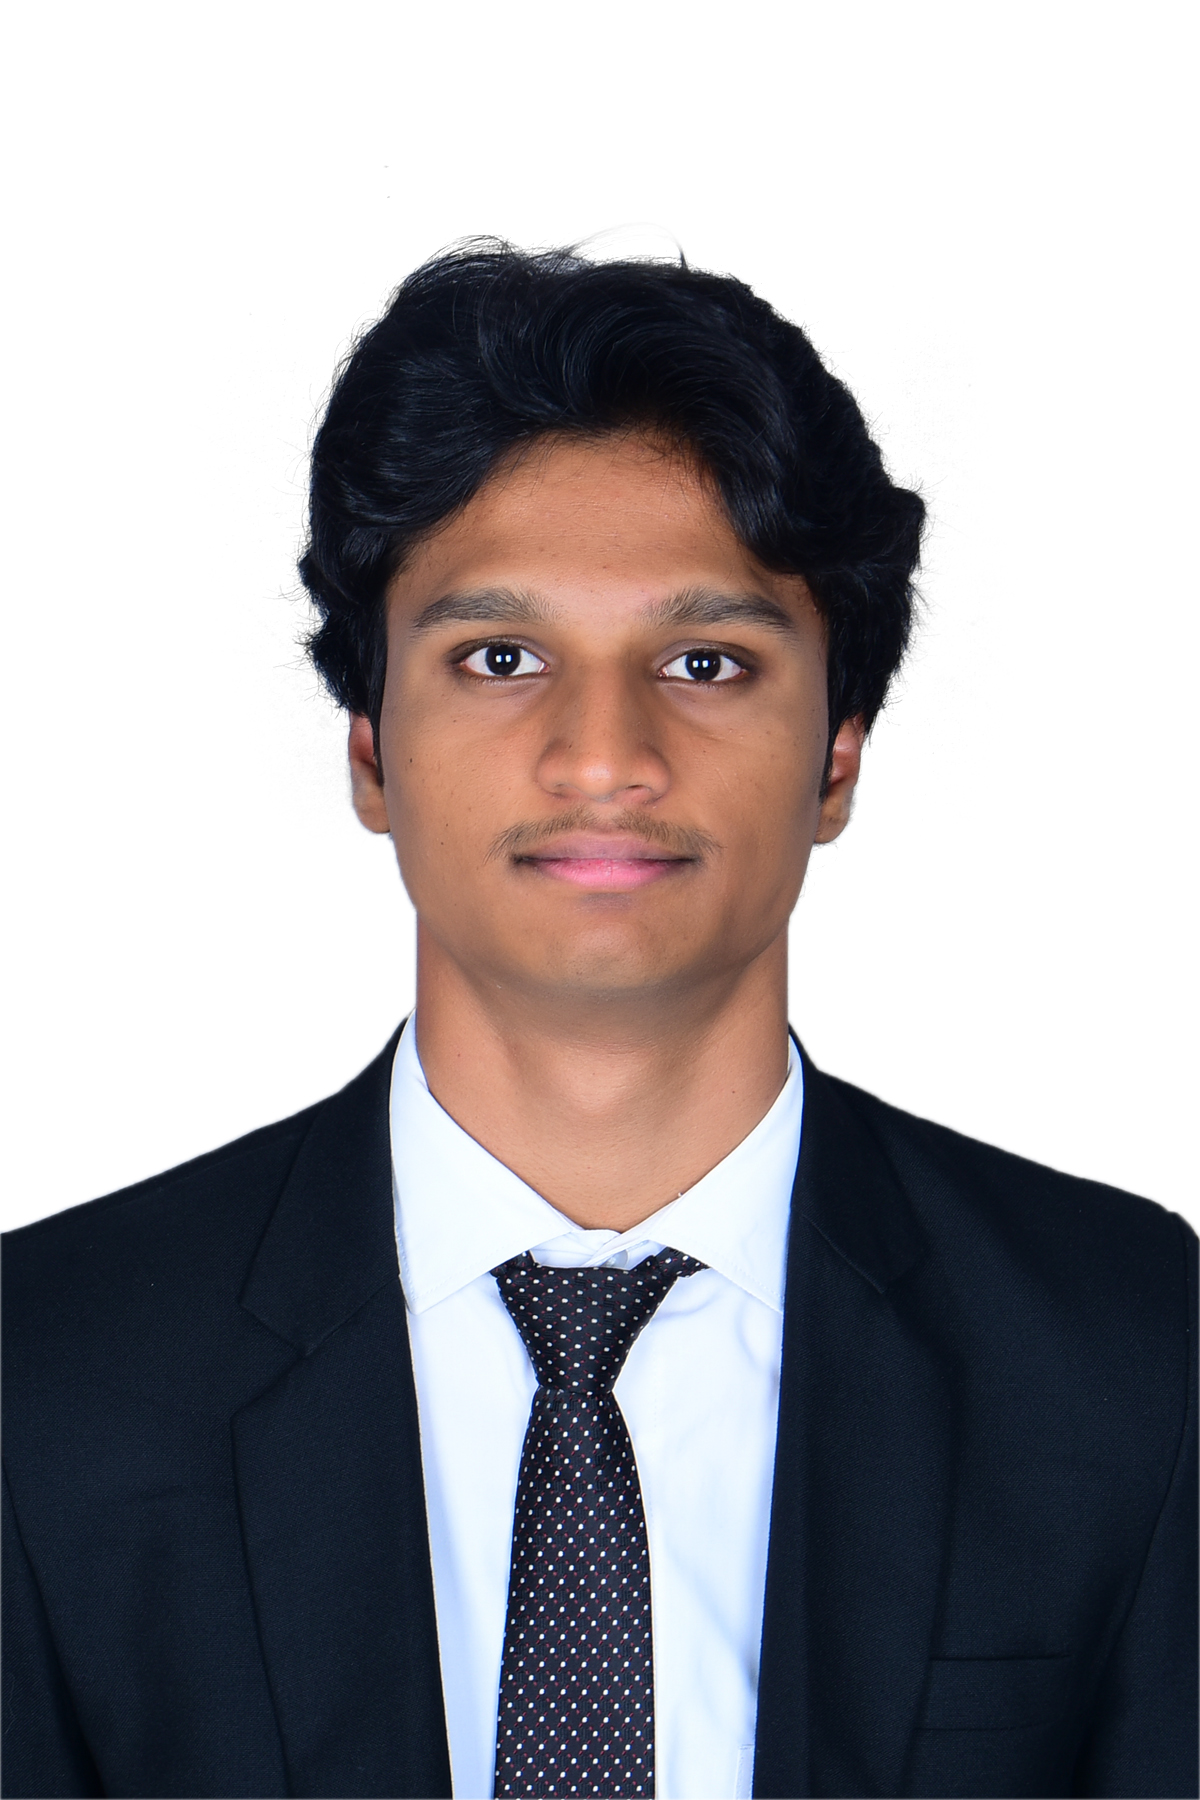
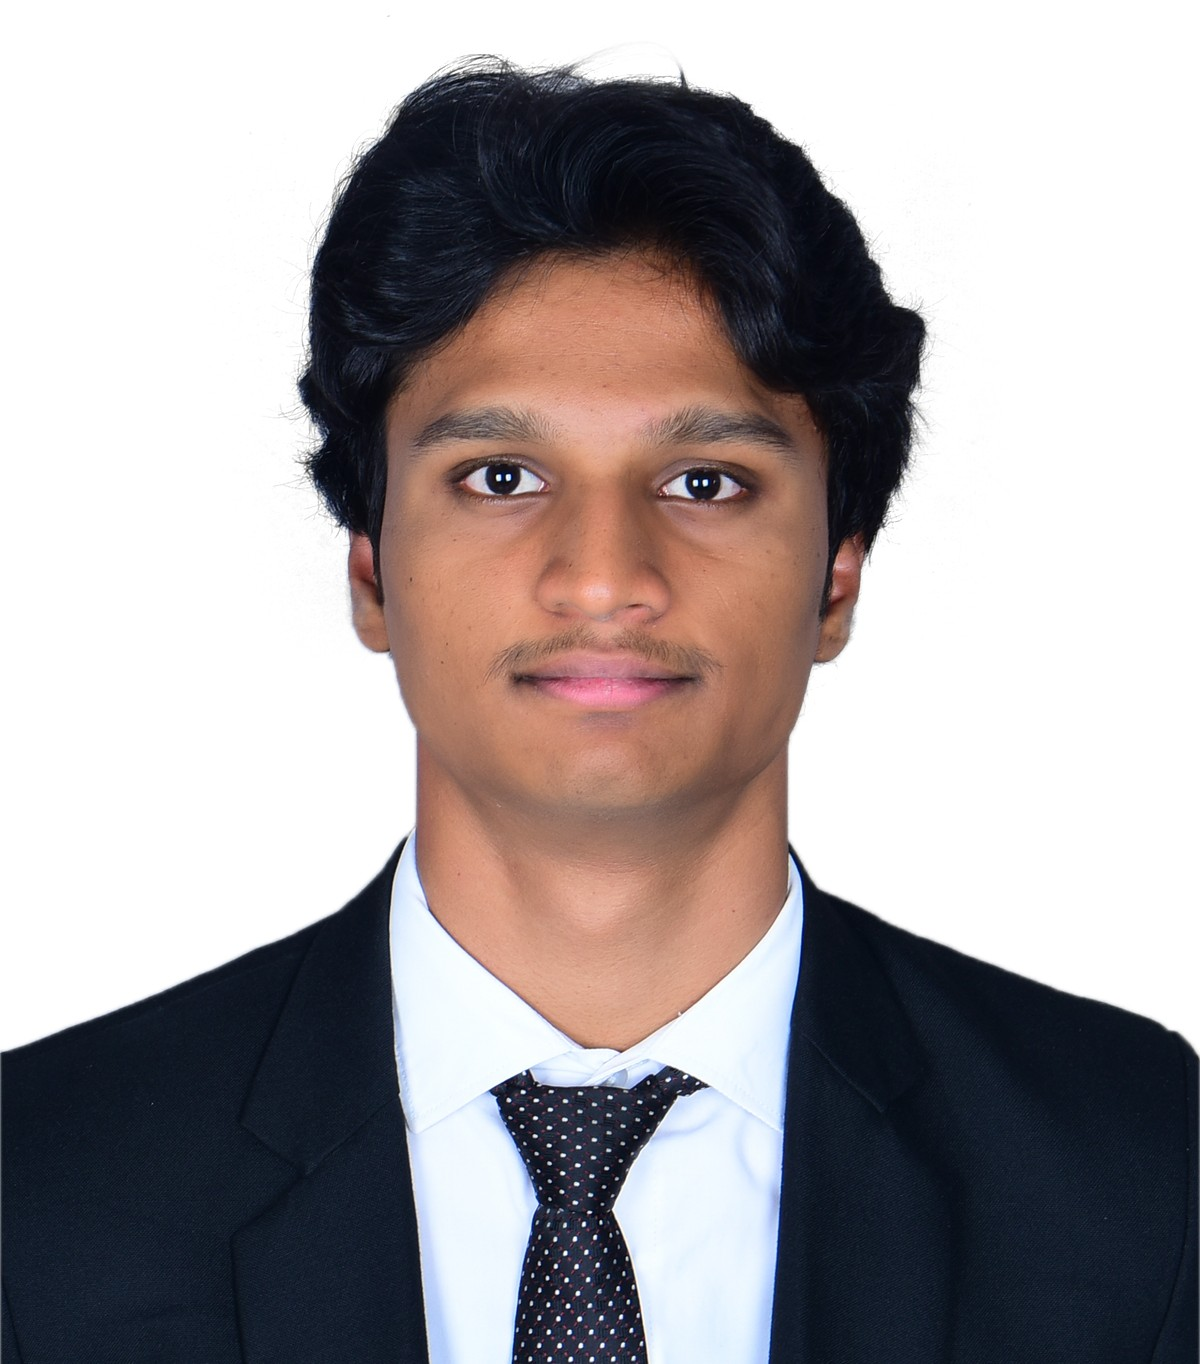
Core faculty, core students, website team and lighter contact cards
- Core Faculty: six members with photos; Mr Sumanth S Y also shown as
  Head of Culturals in the HOD section
- Core Students: six members with phone, email and LinkedIn; the landing
  page "Reach the student core" strip now lists them
- Website Team: P B Jeevan and Athreya S Parande added, empty slot removed
- Contact and landing cards show only the phone number; About cards show
  the phone number with small mail / LinkedIn icons below
- Contact page portraits fill their circle, framed on the face

Changed region(s): [[0.0, 0.0308, 1.0, 1.0], [0.8633, 0.893, 0.925, 1.0], [0.0308, 0.9238, 0.0925, 1.0]]

diff --git a/src/config/team.js b/src/config/team.js
@@ -14,7 +14,15 @@ import nirmala from '../assets/team/hods/DR. NIRMALA MN (HOD, MEDIA STUDIES).jpg
 import arun from '../assets/team/hods/DR. ARUN D M (HOD, ENGLISH & CULTURAL STUDIES).jpg';
 import shrinivas from '../assets/team/hods/Dr Shrinivas Kulkarni (HOD, MANAGEMENT).jpg';
 import raghunandanHod from '../assets/team/hods/DR. RAGHUNANDAN G (HOD, PROFESSIONAL STUDIES).jpg';
+import gayathry from '../assets/team/core-faculty/Dr GAYATHRY S WARRIER.jpg';
+import kavya from '../assets/team/core-faculty/Dr KAVYA SANJAYA.jpg';
+import melvin from '../assets/team/core-faculty/Dr MELVIN VICTOR.jpg';
+import prashanth from '../assets/team/core-faculty/Dr PRASHANTH A S.jpg';
+import shinto from '../assets/team/core-faculty/Dr SHINTO THOMAS.jpg';
+import sumanth from '../assets/team/core-faculty/Mr Sumanth  S Y.jpg';
 import chiranjeevi from '../assets/team/website/Chiranjeevi P (Lead Developer & Designer).jpg';
+import jeevan from '../assets/team/website/P B Jeevan (Developer).jpg';
+import athreya from '../assets/team/website/Athreya S Parande (Developer).jpg';
 
 /**
  * The people behind the fest, for the Dignitaries section of the About page (#/about).
@@ -30,7 +38,10 @@ const TBA = 'To be announced';
 
 const fill = (n, role) => Array.from({ length: n }, () => ({ name: TBA, role }));
 
-/** Each department's head, by department key; a department missing here shows "To be announced". */
+/**
+ * Each department's head, by department key; a department missing here shows "To be announced".
+ * A `role` here replaces the default "Head of Department · <department>".
+ */
 const HODS = {
   mercury: { name: 'Dr VINEETH M', photo: vineeth },
   venus: { name: 'DR. SHERIN P ANTHONY', photo: sherin },
@@ -41,20 +52,21 @@ const HODS = {
   saturn: { name: 'DR. ARUN D M', photo: arun },
   uranus: { name: 'Dr Shrinivas Kulkarni', photo: shrinivas },
   neptune: { name: 'DR. RAGHUNANDAN G', photo: raghunandanHod },
+  station: { name: 'Mr Sumanth S Y', photo: sumanth, role: 'Head of Culturals' },
 };
 
 /** Heads of Departments: one per department (the planets, the Moon and the station), Cultural Events last. */
 const heads = [...DEPT_ORDER.filter((k) => k !== 'station'), 'station'].map((k) => ({
   name: TBA,
-  ...HODS[k],
   role: `Head of Department · ${DEPARTMENTS[k].name}`,
+  ...HODS[k],
 }));
 
 /**
  * `cols` = cards per row on wide screens. `plain` drops the ornate card border
  * (only Dignitaries and Heads keep it). `featured` highlights a section.
  * Keys are also used by the Contact page (faculty-core, student-committee) and
- * the landing page (student-core).
+ * the landing page (student-committee).
  */
 export const TEAM_SECTIONS = [
   {
@@ -85,7 +97,14 @@ export const TEAM_SECTIONS = [
     contact: true,
     cols: 6,
     plain: true,
-    people: fill(6, 'Core Faculty'),
+    people: [
+      { name: 'Dr GAYATHRY S WARRIER', role: 'Core Faculty', photo: gayathry },
+      { name: 'Dr KAVYA SANJAYA', role: 'Core Faculty', photo: kavya },
+      { name: 'Dr MELVIN VICTOR', role: 'Core Faculty', photo: melvin },
+      { name: 'Dr PRASHANTH A S', role: 'Core Faculty', photo: prashanth },
+      { name: 'Dr SHINTO THOMAS', role: 'Core Faculty', photo: shinto },
+      { name: 'Mr Sumanth S Y', role: 'Core Faculty', photo: sumanth },
+    ],
   },
   {
     key: 'student-committee',
@@ -94,7 +113,50 @@ export const TEAM_SECTIONS = [
     contact: true,
     cols: 6,
     plain: true,
-    people: fill(6, 'Core Student'),
+    people: [
+      {
+        name: 'Deberko Das',
+        role: 'Core Student',
+        phone: '9391253577',
+        email: 'deberko.das@bbafmah.christuniversity.in',
+        linkedin: 'https://www.linkedin.com/in/deberkodas',
+      },
+      {
+        name: 'Kavya M Singhani',
+        role: 'Core Student',
+        phone: '8247541692',
+        email: 'kavyam.singhani@bscpsyh.christuniversity.in',
+        linkedin: 'https://in.linkedin.com/in/kavya-singhani-1295a6352',
+      },
+      {
+        name: 'Shreya Vishwanath',
+        role: 'Core Student',
+        phone: '7019839595',
+        email: 'shreya.vishwanath@bcomafh.christuniversity.in',
+        linkedin: 'https://www.linkedin.com/in/shreya-v-670ab9374',
+      },
+      {
+        name: 'Gauri Joshi',
+        role: 'Core Student',
+        phone: '8263035599',
+        email: 'gauri.joshi@bacph.christuniversity.in',
+        linkedin: 'https://www.linkedin.com/in/gauri-joshi-45b06b399',
+      },
+      {
+        name: 'Devansh Das',
+        role: 'Core Student',
+        phone: '7853920991',
+        email: 'devansh.das@baecoh.christuniversity.in',
+        linkedin: 'https://www.linkedin.com/in/das-devansh',
+      },
+      {
+        name: 'Vansh Modi',
+        role: 'Core Student',
+        phone: '9000248110',
+        email: 'vansh.modi@bscemsh.christuniversity.in',
+        linkedin: 'https://www.linkedin.com/in/vansh-modi',
+      },
+    ],
   },
   {
     key: 'faculty-members',
@@ -119,7 +181,7 @@ export const TEAM_SECTIONS = [
     title: 'Website Team',
     kicker: 'Builders of this orbit',
     contact: true,
-    cols: 4,
+    cols: 3,
     plain: true,
     featured: true,
     people: [
@@ -131,9 +193,22 @@ export const TEAM_SECTIONS = [
         email: 'chiranjeevi.p@bcah.christuniversity.in',
         linkedin: 'https://www.linkedin.com/in/chiranjeevi-purushotham/',
       },
-      { name: TBA, role: 'Developer' },
-      { name: TBA, role: 'Designer' },
-      { name: TBA, role: 'Developer' },
+      {
+        name: 'P B Jeevan',
+        role: 'Developer',
+        photo: jeevan,
+        phone: '8088227116',
+        email: 'jeevan.pb@christuniversity.in',
+        linkedin: 'https://www.linkedin.com/in/pbjeevan/',
+      },
+      {
+        name: 'Athreya S Parande',
+        role: 'Developer',
+        photo: athreya,
+        phone: '8088617880',
+        email: 'athreya.s@msaic.christuniversity.in',
+        linkedin: 'https://www.linkedin.com/in/athreya-s-parande/',
+      },
     ],
   },
 ];

diff --git a/src/index.css b/src/index.css
@@ -2096,7 +2096,14 @@
     letter-spacing: 0.16em;
   }
   .dg-grid[data-cols="6"] .gcard__contact {
-    font-size: 0.62rem;
+    gap: 0.4rem;
+  }
+  .dg-grid[data-cols="6"] .gcard__contact a {
+    width: 1.45rem;
+  }
+  .dg-grid[data-cols="6"] .gcard__contact a.gcard__phone {
+    width: auto;
+    font-size: 0.64rem;
   }
   .dg-grid[data-cols="6"] .gcard__stud {
     width: 1.05rem;
@@ -2436,29 +2443,68 @@
   .gcard__role span {
     display: block;
   }
+  /* Contact: the phone number as a pill, then mail and LinkedIn as small round gold buttons */
   .gcard__contact {
     position: relative;
     z-index: 2;
     display: flex;
-    flex-direction: column;
-    align-items: center;
-    gap: 0.25rem;
-    margin-top: 0.5rem;
-    font-size: 0.72rem;
+    flex-wrap: wrap;
+    justify-content: center;
+    gap: 0.4rem 0.45rem;
+    margin-top: 0.6rem;
   }
   .gcard__contact a {
-    display: inline-flex;
-    align-items: center;
-    gap: 0.4rem;
-    color: rgba(246, 239, 224, 0.75);
-    transition: color 0.3s ease;
+    display: grid;
+    place-items: center;
+    width: 1.6rem;
+    aspect-ratio: 1;
+    border: 1px solid rgba(243, 217, 164, 0.22);
+    border-radius: 9999px !important;
+    background: transparent;
+    color: rgba(233, 194, 122, 0.8);
+    transition:
+      color 0.3s ease,
+      background-color 0.3s ease,
+      border-color 0.3s ease,
+      transform 0.3s ease;
   }
-  .gcard__contact a:hover {
-    color: var(--color-gold-200);
+  .gcard__contact a:hover,
+  .gcard__contact a:focus-visible {
+    outline: none;
+    border-color: rgba(255, 228, 176, 0.9);
+    background: rgba(233, 194, 122, 0.2);
+    color: #fff8ea;
+    transform: translateY(-2px);
+  }
+  /* Ends the phone line, so mail and LinkedIn sit on the line below */
+  .gcard__break {
+    flex-basis: 100%;
+    height: 0;
+  }
+  /* The phone number as plain text (no box), so the block stays light */
+  .gcard__contact a.gcard__phone {
+    display: inline-flex;
+    gap: 0.4rem;
+    width: auto;
+    aspect-ratio: auto;
+    padding: 0;
+    border: 0;
+    font-size: 0.74rem;
+    letter-spacing: 0.06em;
+    white-space: nowrap;
+    color: rgba(246, 239, 224, 0.85);
+  }
+  .gcard__contact a.gcard__phone:hover,
+  .gcard__contact a.gcard__phone:focus-visible {
+    background: none;
+    transform: none;
+  }
+  .gcard__contact a.gcard__phone svg {
+    color: #e9c27a;
   }
   .gcard__contact svg {
-    width: 0.8rem;
-    height: 0.8rem;
+    width: 0.75rem;
+    height: 0.75rem;
     fill: none;
     stroke: currentColor;
     stroke-width: 1.4;
@@ -8429,11 +8475,17 @@
     border-color: rgba(255, 228, 176, 0.8);
     animation-duration: 6s;
   }
+  /* The photo sits inside the circle, behind the gold ring (the medal itself stays
+     overflow: visible for the dashed ring) */
   .ct-card__medal img {
+    position: absolute;
+    inset: 0;
     width: 100%;
     height: 100%;
-    border-radius: inherit;
+    border-radius: 9999px !important;
     object-fit: cover;
+    /* Portraits are tall with the face in the upper third. */
+    object-position: 50% 12%;
   }
   .ct-card__medal b {
     font-family: var(--font-display);

diff --git a/src/components/about/Dignitaries.jsx b/src/components/about/Dignitaries.jsx
@@ -97,29 +97,29 @@ function PersonCard({ person, index, section, className = '' }) {
         </p>
 
         {section.contact && (person.phone || person.email || person.linkedin) && (
+          // The phone number in full, with mail and LinkedIn as round icon buttons below (address on hover).
           <div className="gcard__contact">
             {person.phone && (
-              <a href={`tel:+91${person.phone}`}>
+              <a href={`tel:+91${person.phone}`} className="gcard__phone">
                 <svg viewBox="0 0 20 20" aria-hidden="true">
                   <path d="M6.6 3.5 8.3 7 6.8 8.4a9.6 9.6 0 0 0 4.8 4.8l1.4-1.5 3.5 1.7-.6 2.7c-.1.5-.6.9-1.1.9A13 13 0 0 1 2.9 4.1c0-.5.4-1 .9-1.1l2.8-.5Z" />
                 </svg>
                 {formatPhone(person.phone)}
               </a>
             )}
+            {person.phone && (person.email || person.linkedin) && <span className="gcard__break" aria-hidden="true" />}
             {person.email && (
-              <a href={`mailto:${person.email}`}>
+              <a href={`mailto:${person.email}`} title={person.email} aria-label={`Email ${person.email}`}>
                 <svg viewBox="0 0 20 20" aria-hidden="true">
                   <path d="M3 5h14v10H3Z M3 5l7 6 7-6" />
                 </svg>
-                {person.email}
               </a>
             )}
             {person.linkedin && (
-              <a href={person.linkedin} target="_blank" rel="noopener noreferrer">
+              <a href={person.linkedin} target="_blank" rel="noopener noreferrer" title="LinkedIn" aria-label={`${person.name} on LinkedIn`}>
                 <svg viewBox="0 0 20 20" strokeLinecap="round" aria-hidden="true">
                   <path d="M3 3h14v14H3Z M6.5 9v5 M6.5 6.2v.1 M9.5 14V9 M9.5 11.2c0-1.4 1-2.2 2.2-2.2s2 .8 2 2.2V14" />
                 </svg>
-                LinkedIn
               </a>
             )}
           </div>

diff --git a/src/components/contact/ContactCard.jsx b/src/components/contact/ContactCard.jsx
@@ -12,12 +12,11 @@ const formatPhone = (p) => (p.length === 10 ? `+91 ${p.slice(0, 5)} ${p.slice(5)
 
 const ICON = {
   phone: 'M6.6 3.5 8.3 7 6.8 8.4a9.6 9.6 0 0 0 4.8 4.8l1.4-1.5 3.5 1.7-.6 2.7c-.1.5-.6.9-1.1.9A13 13 0 0 1 2.9 4.1c0-.5.4-1 .9-1.1l2.8-.5Z',
-  mail: 'M3 5h14v10H3Z M3 5l7 6 7-6',
 };
 
 /**
  * A person's contact as a simple glass card: a ringed medallion with initials,
- * name and role, and call / mail tags.
+ * name and role, and the phone number as a call tag (mail and LinkedIn live on the About page).
  * `compact` for the landing page strip; `active` lights it up (its station module is focused);
  * any other props (data attributes, pointer handlers) go on the card itself.
  */
@@ -43,15 +42,7 @@ export default function ContactCard({ person, index = 0, compact = false, active
               {formatPhone(person.phone)}
             </a>
           ) : null}
-          {person.email ? (
-            <a href={`mailto:${person.email}`} className="ct-seal">
-              <svg viewBox="0 0 20 20" aria-hidden="true">
-                <path d={ICON.mail} />
-              </svg>
-              {compact ? 'Email' : person.email}
-            </a>
-          ) : null}
-          {!person.phone && !person.email && <span className="ct-seal is-soon">Contact shared soon</span>}
+          {!person.phone && <span className="ct-seal is-soon">Contact shared soon</span>}
         </div>
       </div>
     </li>

diff --git a/src/pages/LandingPage.jsx b/src/pages/LandingPage.jsx
@@ -41,8 +41,8 @@ const STATS = [
   { value: '₹10L', label: 'Prize pool', featured: true },
 ];
 
-// Student core members: the contacts shown on the landing page (edit in config/team.js).
-const STUDENT_CORE = TEAM_SECTIONS.find((s) => s.key === 'student-core')?.people ?? [];
+// Core Students: the contacts shown on the landing page (edit in config/team.js).
+const STUDENT_CORE = TEAM_SECTIONS.find((s) => s.key === 'student-committee')?.people ?? [];
 
 // The four forces of the fest (About section).
 const PILLARS = [
